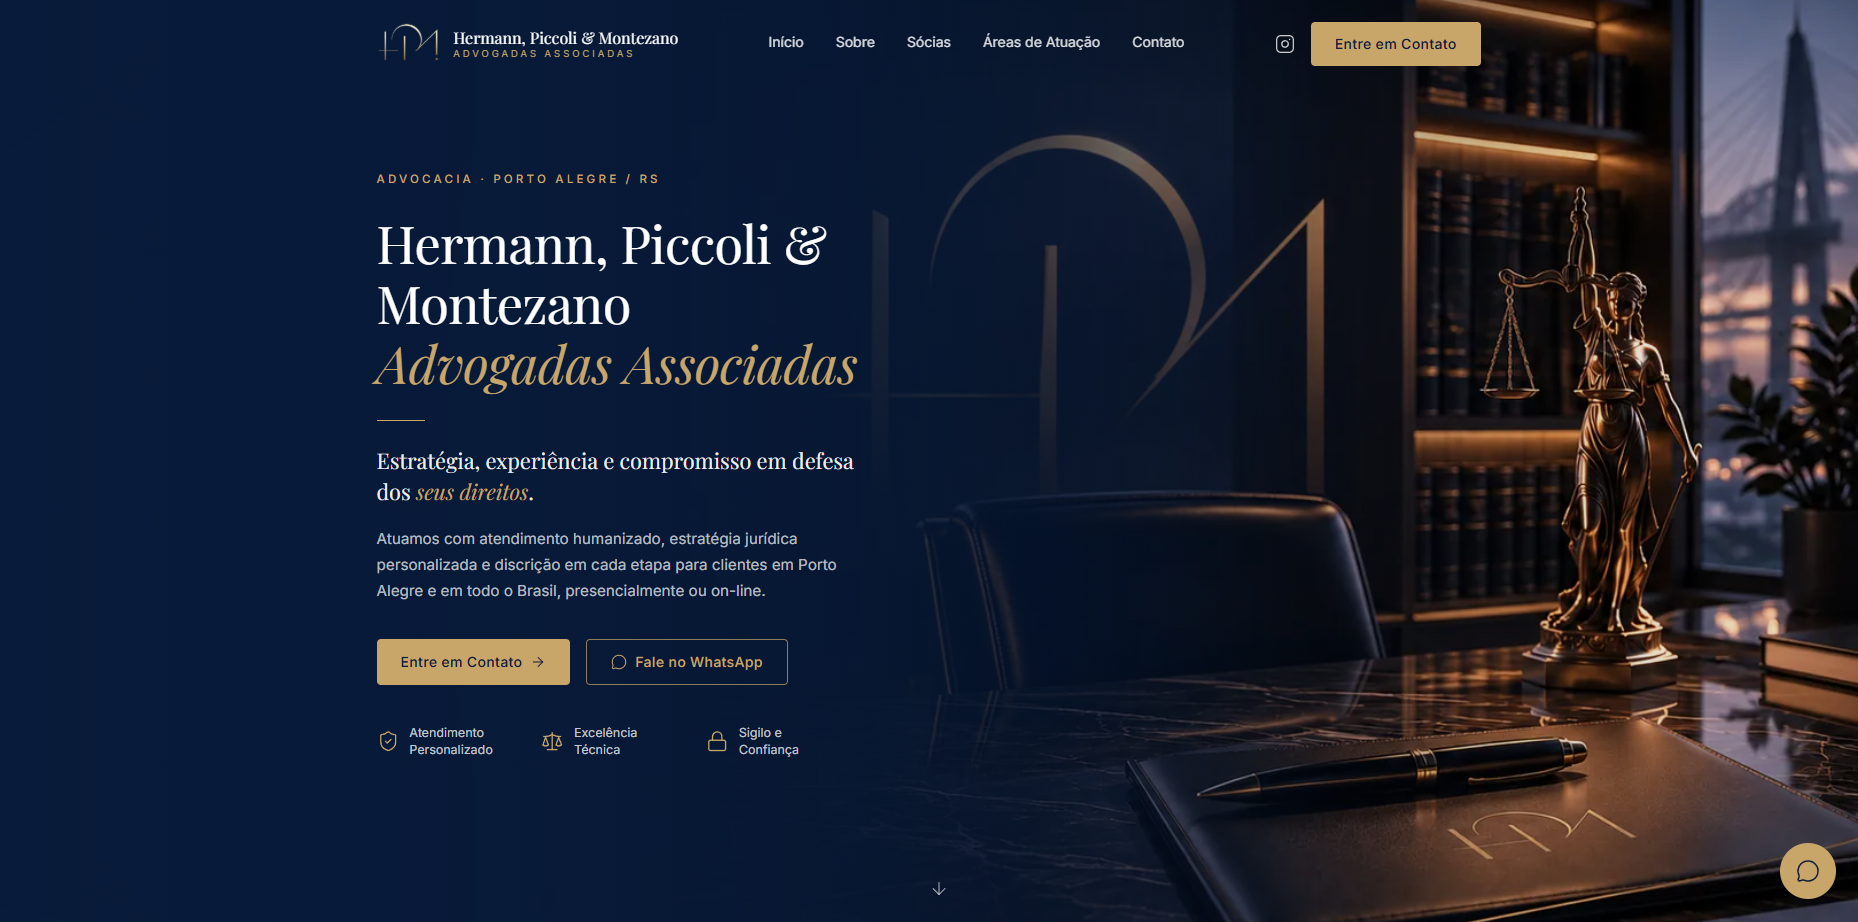
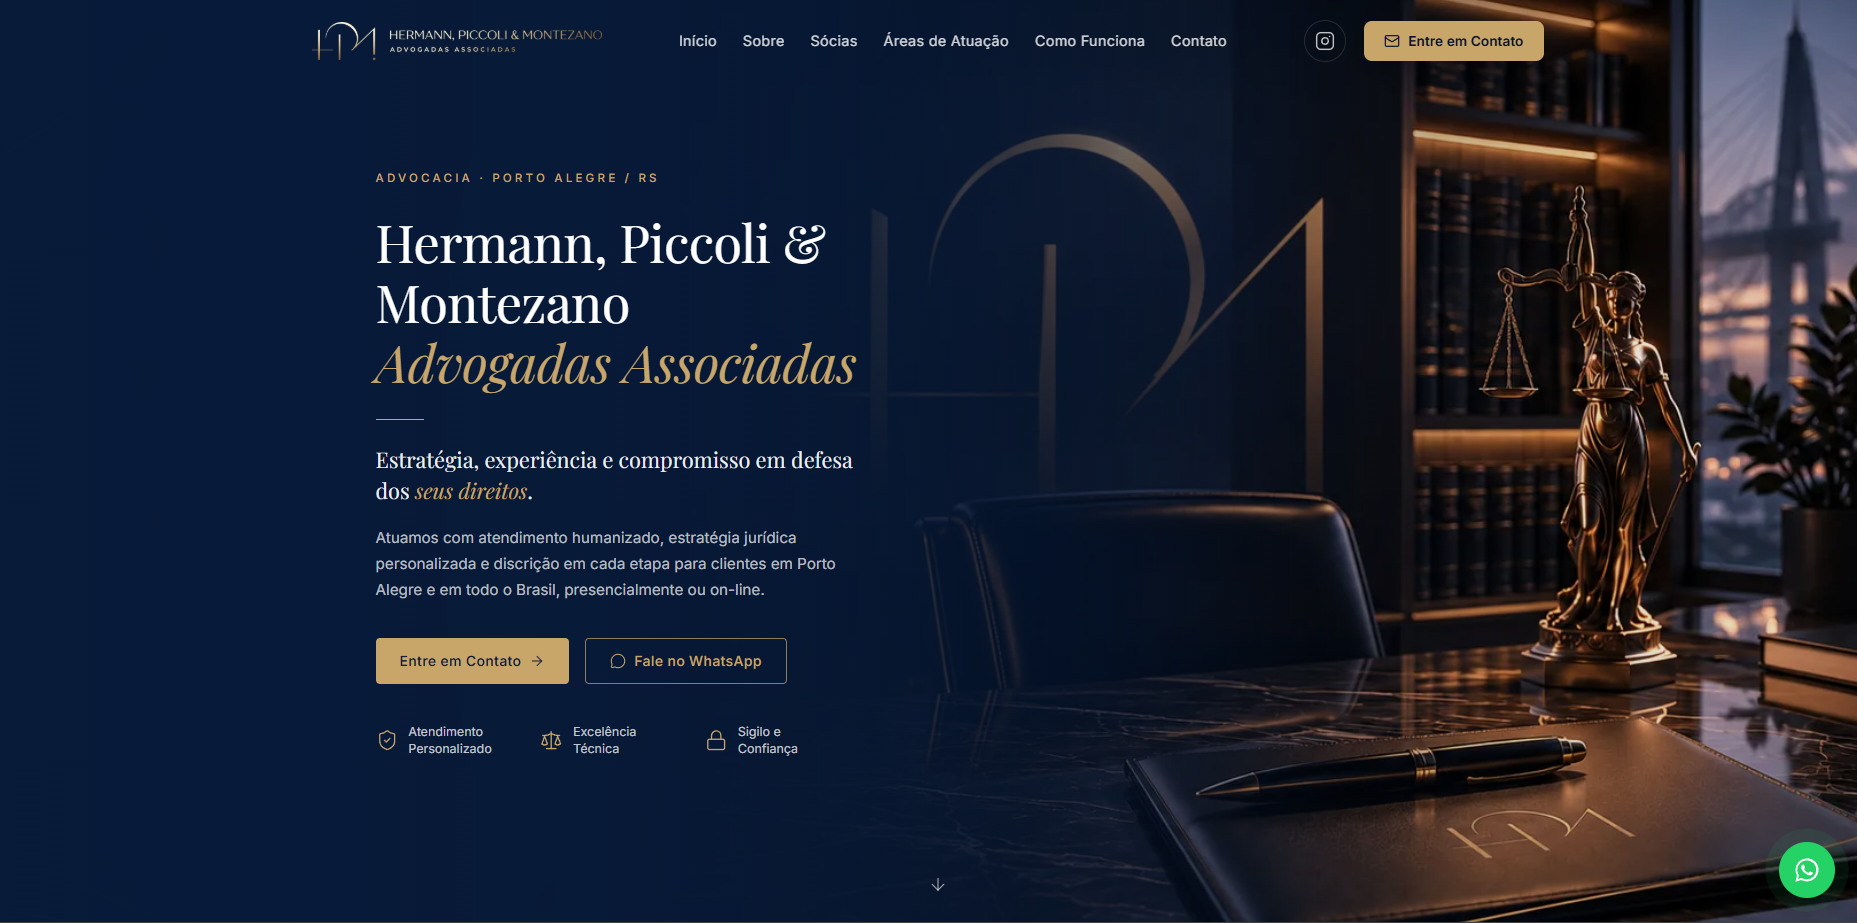
Adiciona projeto e faz melhorias

diff --git a/index.html b/index.html
@@ -180,7 +180,56 @@
   </div>
 
   <!-- Featured -->
-  <div class="featured-grid reveal">
+  <div class="featured-grid reveal">  
+
+    <div class="project-card featured">
+      <img src="./assets/images/projeto-hpmadvogadas.png" alt="hpm advogadas" class="project-thumb">
+      <div class="project-body">
+        <div class="project-tech">
+          <span class="tech-tag">React</span>
+          <span class="tech-tag">TanStack Router</span>
+          <span class="tech-tag">Vite</span>
+          <span class="tech-tag">Framer Motion</span>
+          <span class="tech-tag">React Hook Form</span>
+          <span class="tech-tag">EmailJS</span>
+        </div>
+        <h3>HPM Advogadas</h3>
+        <p>Site institucional para escritório de advocacia real, com 3 sócias. Páginas dinâmicas de perfil por advogada (rota própria e SEO individual), formulário de contato validado com React Hook Form e Yup, envio por e-mail via EmailJS e integração de WhatsApp personalizada por advogada. Animações com Framer Motion. Deploy em produção.</p>
+        <div class="project-links">
+          <a href="https://hpmadvogadas.vercel.app" target="_blank" class="proj-btn primary">
+            <i class="bi bi-box-arrow-up-right"></i> Ver projeto
+          </a>
+          <a href="https://github.com/endryus7/hpmadvogadas" target="_blank" class="proj-btn ghost">
+            <i class="bi bi-github"></i> Repositório
+          </a>
+        </div>
+      </div>
+    </div>
+
+    <div class="project-card featured">
+      <img src="./assets/images/projeto-andre.png" alt="Dr. André Albani Lara" class="project-thumb">
+      <div class="project-body">
+        <div class="project-tech">
+          <span class="tech-tag">React</span>
+          <span class="tech-tag">TanStack Router</span>
+          <span class="tech-tag">Vite</span>
+          <span class="tech-tag">Framer Motion</span>
+          <span class="tech-tag">React Hook Form</span>
+          <span class="tech-tag">EmailJS</span>
+        </div>
+        <h3>Dr. André Albani Lara</h3>
+        <p>Site institucional desenvolvido para o advogado criminalista André Albani Lara, com foco  em transmitir credibilidade, apresentar sua atuação profissional e facilitar o contato de potenciais clientes. O visitante pode conhecer o advogado, entender as áreas de atuação, acompanhar o processo de atendimento, assistir conteúdos em vídeo e entrar em contato pelo WhatsApp ou formulário.</p>
+        <div class="project-links">
+          <a href="https://www.aaladvcriminal.com.br" target="_blank" class="proj-btn primary">
+            <i class="bi bi-box-arrow-up-right"></i> Ver projeto
+          </a>
+          <a href="https://github.com/endryus7/Advogado-Andre" target="_blank" class="proj-btn ghost">
+            <i class="bi bi-github"></i> Repositório
+          </a>
+        </div>
+      </div>
+    </div>
+
     <div class="project-card featured">
       <img src="./assets/images/projeto-chica-doçuras.png" alt="Chica Doçuras" class="project-thumb">
       <div class="project-body">
@@ -206,34 +255,7 @@
     </div>
 
     <div class="project-card featured">
-      <img src="./assets/images/projeto-hpmadvogadas.png" alt="hpm advogadas" class="project-thumb">
-      <div class="project-body">
-        <div class="project-tech">
-          <span class="tech-tag">React</span>
-          <span class="tech-tag">TanStack Router</span>
-          <span class="tech-tag">Vite</span>
-          <span class="tech-tag">Framer Motion</span>
-          <span class="tech-tag">React Hook Form</span>
-          <span class="tech-tag">EmailJS</span>
-        </div>
-        <h3>HPM Advogadas</h3>
-        <p>Site institucional para escritório de advocacia real, com 3 sócias. Páginas dinâmicas de perfil por
-          advogada (rota própria e SEO individual), formulário de contato validado com React Hook Form e Yup,
-          envio por e-mail via EmailJS e integração de WhatsApp personalizada por advogada. Animações com
-          Framer Motion. Deploy em produção.</p>
-        <div class="project-links">
-          <a href="https://hpmadvogadas.vercel.app" target="_blank" class="proj-btn primary">
-            <i class="bi bi-box-arrow-up-right"></i> Ver projeto
-          </a>
-          <a href="https://github.com/endryus7/hpmadvogadas" target="_blank" class="proj-btn ghost">
-            <i class="bi bi-github"></i> Repositório
-          </a>
-        </div>
-      </div>
-    </div>
-
-    <div class="project-card featured">
-      <img src="./assets/images/projeto-mylenna.png" alt="Advogada Mylenna" class="project-thumb">
+      <img src="./assets/images/projeto-mylenna.png" alt="Dra. Mylenna Montezano" class="project-thumb">
       <div class="project-body">
         <div class="project-tech">
           <span class="tech-tag">React</span>
@@ -242,7 +264,7 @@
           <span class="tech-tag">Lucide React</span>
           <span class="tech-tag">FormSubmit</span>
         </div>
-        <h3>Mylenna Montesano — Advocacia Familiar</h3>
+        <h3>Dra. Mylenna Montezano</h3>
         <p>Site desenvolvido para advogada especializada em Direito de Família e Sucessões. Design institucional sóbrio com identidade visual personalizada, seções de apresentação profissional e chamada para consulta gratuita.</p>
         <div class="project-links">
           <a href="https://www.mylennamontezano.com.br" target="_blank" class="proj-btn primary">
